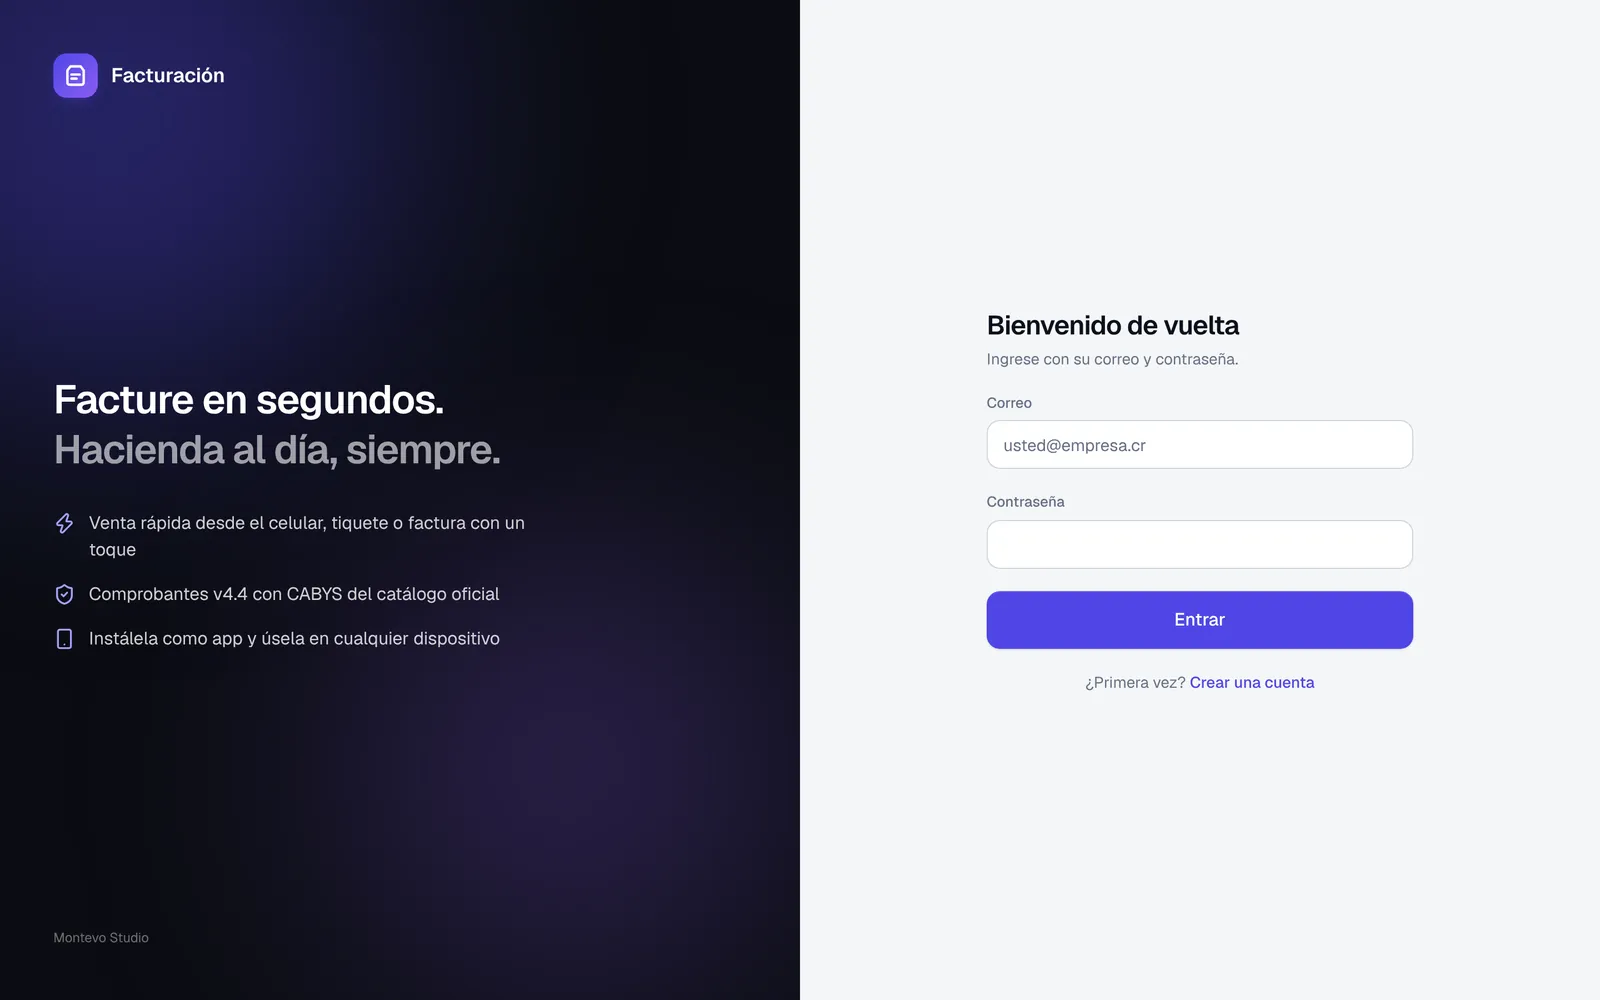
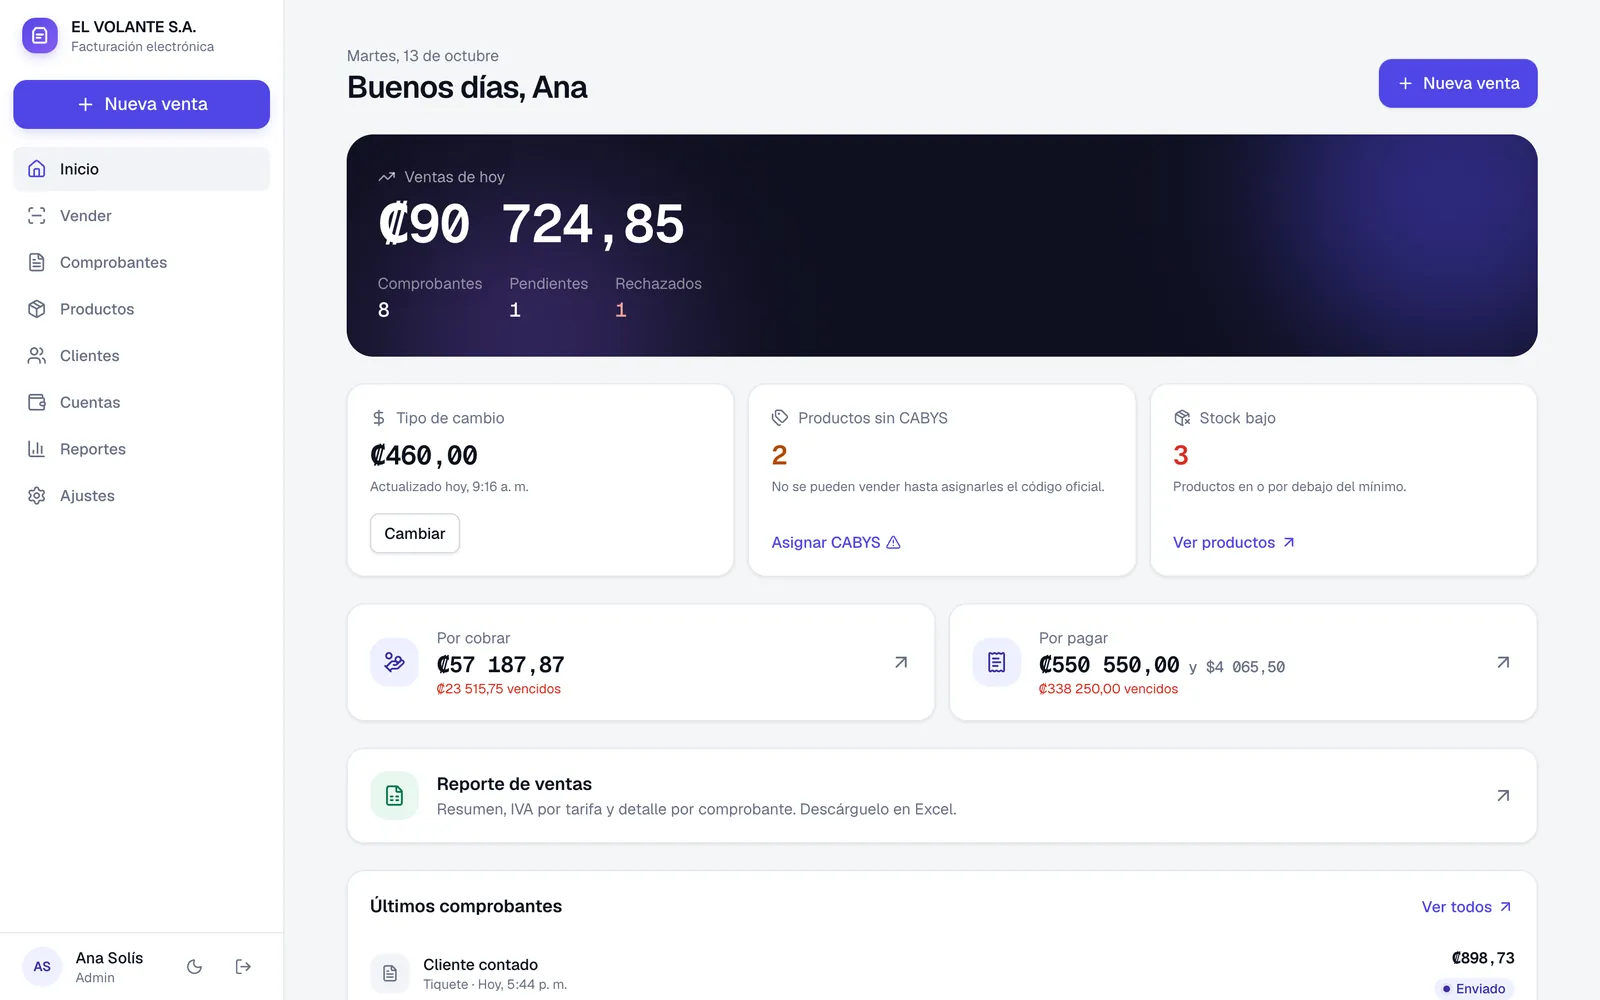
Ranger SWAT: nuevas capturas del sistema y descripción ampliada
Claude-Session: https://claude.ai/code/session_018UCKGMtG2XUVk9aNjHVJGe

diff --git a/src/content/projects.ts b/src/content/projects.ts
@@ -25,15 +25,21 @@ export const projects: Project[] = [
     year: 2026,
     type: 'producto',
     services: ['Facturación', 'Apps'],
-    summary: 'Facturación electrónica desde el celular: tiquete o factura con un toque, siempre al día con Hacienda.',
+    summary: 'Facturación electrónica en el celular o la computadora: tiquete o factura con un toque, siempre al día con Hacienda.',
     description: [
-      'Una app de facturación pensada para vender rápido desde el celular. El comercio emite un tiquete o una factura con un toque y el comprobante sale listo para Hacienda.',
-      'Emite comprobantes en la versión 4.4 con códigos CABYS tomados del catálogo oficial. Se instala como app en cualquier dispositivo, sin pasar por tiendas.',
+      'Una app de facturación pensada para vender rápido. El comercio arma el carrito, cobra en efectivo, tarjeta, SINPE Móvil o transferencia, y el comprobante sale listo para Hacienda, para imprimir o enviar por correo.',
+      'Emite comprobantes en la versión 4.4 con códigos CABYS tomados del catálogo oficial. Además lleva productos, clientes, cuentas por cobrar y por pagar, cotizaciones y reportes que se descargan en Excel. Tiene modo claro y oscuro, y se instala como app en cualquier dispositivo, sin pasar por tiendas.',
     ],
-    deliverables: ['Comprobantes electrónicos v4.4', 'Catálogo CABYS integrado', 'Venta rápida desde el celular', 'App instalable (PWA)'],
+    deliverables: ['Comprobantes electrónicos v4.4', 'Catálogo CABYS integrado', 'Cuentas por cobrar y por pagar', 'Reportes exportables a Excel', 'App instalable (PWA)'],
     colors: ['#4F46E5', '#14112B'],
     cover: 'projects/ranger-swat/cover.webp',
-    gallery: ['projects/ranger-swat/mobile.webp'],
+    gallery: [
+      'projects/ranger-swat/vender.webp',
+      'projects/ranger-swat/movil-inicio.webp',
+      'projects/ranger-swat/movil-cobrar.webp',
+      'projects/ranger-swat/movil-emitido.webp',
+      'projects/ranger-swat/reportes-oscuro.webp',
+    ],
     url: 'https://ranger-swat.app',
     featured: true,
   },

diff --git a/src/styles.css b/src/styles.css
@@ -845,6 +845,9 @@ html.is-locked, html.is-locked body { overflow: hidden; }
 .case__visit { margin-top: 28px; }
 .case__gallery { grid-template-columns: repeat(auto-fit, minmax(min(100%, 280px), 1fr)); align-items: start; }
 .case__gallery img { grid-column: 1 / -1; box-shadow: 0 1px 2px rgba(38,28,21,.05), 0 30px 80px -40px rgba(38,28,21,.35); }
+/* Teléfonos seguidos se acomodan lado a lado; uno solo queda centrado. */
+.case__gallery img.is-portrait:has(+ img.is-portrait),
+.case__gallery img.is-portrait + img.is-portrait { grid-column: auto; }
 .case__gallery img.is-portrait {
   justify-self: center;
   width: 100%;
